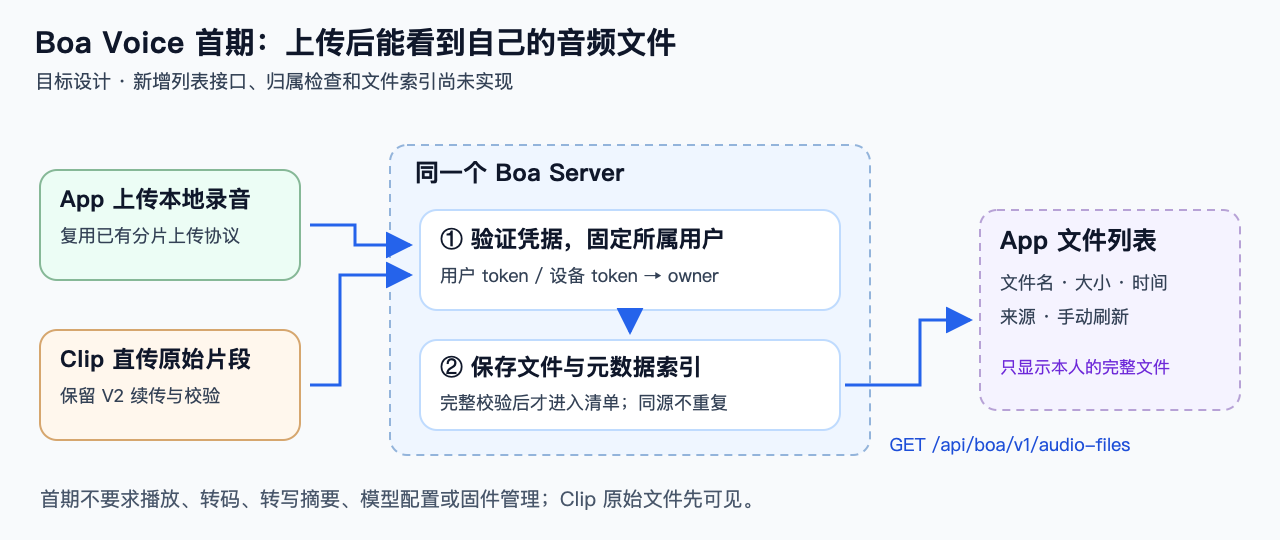
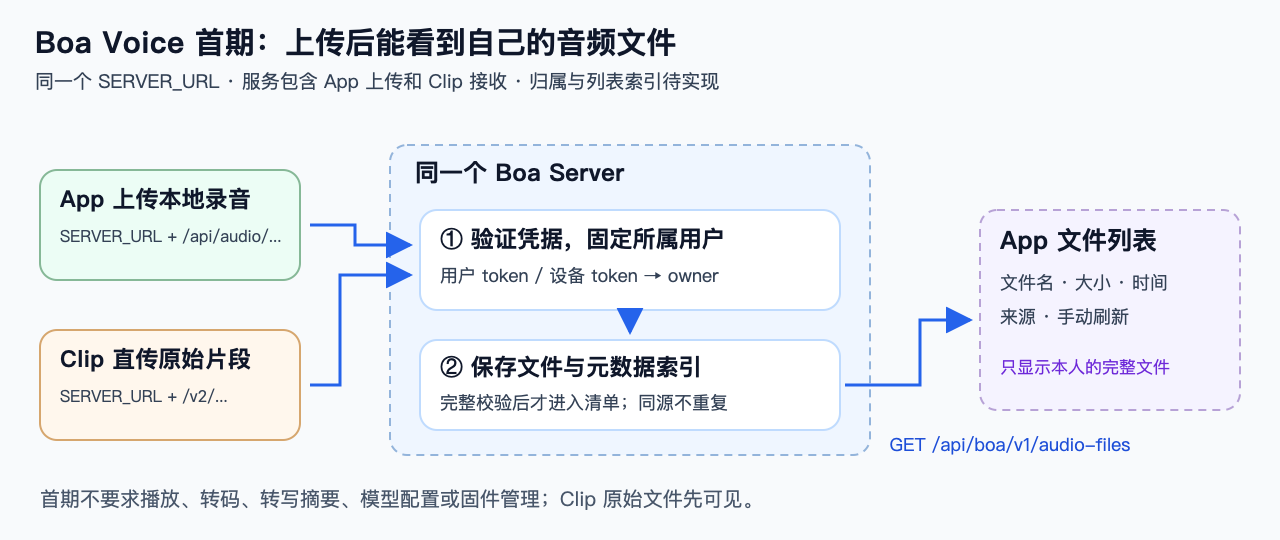
docs: define App and Clip against a single Boa Server service

Changed region(s): [[0.0312, 0.1185, 0.5625, 0.1778], [0.0312, 0.4148, 0.2188, 0.4741], [0.0312, 0.7111, 0.1875, 0.7704]]

diff --git a/README-integration.md b/README-integration.md
@@ -4,7 +4,7 @@
 
 分支：`boa/desktop-https-integration`。桌面与实验固件已完成代码集成；音频 Server 后续已部署至开发机并通过服务器内验证。未发布 App 安装包、未安装本分支 App、未刷机。
 
-开发机为 `bobo@100.58.19.213`。Boa 音频库现使用 **`https://100.58.19.213:9528`**，Mac 上桌面同一客户端已完成真实跨机器音频传输；不依赖 SSH 转发。见 [当前部署与证书说明](docs/development/server-100.58.19.213.md)、[桌面 HTTP 验证](docs/development/2026-10-22-desktop-http-status.md)。Roger 的 9527 是同一开发机上暂时单独运行的 Clip 接收进程；目标并入同一个 Boa Server，统一入口和内部音频入库；已安装 GUI App 尚未配置这份开发证书。早期 [部署验证记录](docs/development/2026-10-22-server-deployment-verification.md) 保留当时的 loopback 状态。
+**服务设计：App 与 Clip 都连接同一个 Boa Server，使用同一个 SERVER_URL。** 服务包含 App 上传、Clip 接收、统一鉴权、文件存储和列表接口。开发机为 `bobo@100.58.19.213`；部署参数见 [部署记录](docs/development/server-100.58.19.213.md)，已有跨机器传输证据见 [桌面 HTTP 验证](docs/development/2026-10-22-desktop-http-status.md)。这些记录不代表首期归属与统一列表已经实现。
 
 ## 集成来源
 
@@ -18,7 +18,7 @@
 
 后续开发机适配只为 Server launcher 增加可选 TLS 参数；桌面 `StorageClient` 明确在下载完成后关闭该次下载连接，避免下一次上传复用对端已退出的连接。`/api/audio`、持久存储逻辑、上传重试与哈希校验保持不变。测速程序可通过环境变量在当前进程信任开发证书，未改已安装 App 或系统证书设置。
 
-**首期只验收文件可见：**新增 `/api/boa/v1/audio-files` 统一列出完整接收的 App 文件和 Clip 原始片段；索引、用户归属和入口合并待开发，不要求首期播放/解码或 AI。以下是已有代码能力，保留不删。
+**首期只验收文件可见：**新增 `/api/boa/v1/audio-files` 统一列出完整接收的 App 文件和 Clip 原始片段；统一索引和用户归属待开发，不要求首期播放/解码或 AI。以下是已有代码能力，保留不删。
 
 ## 保留的功能与边界
 
@@ -26,14 +26,15 @@
 - 音频 Server：`/api/audio` 分片上传、SHA-256 校验、持久化、列表、HTTP Range 下载与续传。仍是单用户令牌模式，文件与 SQLite 存在本机磁盘。详见 [Server README](services/audio_storage/README.md)。
 - 实验固件：STA 联网、HTTPS 分块续传、USB 配置、空闲自动上传及录音优先机制，保留实验基线的限制。其构建以 STA 替代设备 AP，USB 不暴露录音磁盘；旧 App 的 AP/Wi-Fi 同步路径不能直接当作该固件可用功能。
 
-**同一开发机的两个过渡接收进程尚未合并（目标为同一个 Server）：**
+**首期同一服务内的数据流（设计，待实现）：**
 
 ```text
-麦克风 / App 已支持的本地文件 → Boa 桌面端 → /api/audio → 本地磁盘 + SQLite
-Clip 实验固件 → HTTPS /v2/devices/.../recordings/... → 实验接收端 → 原始录音分段
+App  ── /api/audio/uploads/... ──┐
+                                ├─ Boa Server ─ 归属/文件索引 ─ /api/boa/v1/audio-files ─ App
+Clip ── /v2/devices/... ─────────┘
 ```
 
-Clip 的 `stored` 回执仅表示原始字节已接收；不会自动进入 App 的音频列表，也不能直接保证标准音频播放。尚需 SourceRecord 元数据、设备与用户归属、可靠出站队列、原始 Opus 解码/封装和标准音频入库桥接。转写、摘要、自定义模型 endpoint 的 Server 执行仍是协议设计。本次不新增这些运行时功能。
+Clip 的 stored 表示原始片段完整接收；首期在同一个 Server 登记来源、所属用户和元数据后即可显示文件。原始片段不要求首期解码或播放，转写摘要与固件管理不在首期。上述归属与统一列表仍待实现，不以现有上传验证代替完整验收。
 
 ## 本地开发启动
 
@@ -58,15 +59,14 @@ bash scripts/run-desktop.sh
 
 该入口是 `mobile/app/lib/desktop_main.dart`，不是 `mobile/sdk/flutter/example`。本地构建可能使用相同的 App 数据目录；如要清空/隔离已有用户数据，应另外安排，不能直接删除。
 
-实验 HTTPS 接收端单独启动，证书、设备令牌、存储目录也与音频服务分别配置；按 [实验工具 README](tools/https_poc/README.md) 的凭据生成与接收端命令执行。设备配置通过 USB 工具完成，当前桌面界面尚未提供这一配置流程。请先阅读该文档和 [实机限制](docs/https-prehardware-test-results.md)，不要直接照搬历史证书或私有配置。
+上述启动命令仅用于现有音频服务基线，不代表已具备首期 Clip 接收和统一列表。实验 [接收工具](tools/https_poc/README.md) 作为协议/续传实现参考；首期由同一个 Boa Server 提供 V2 接收路由。设备连接参数仍按 [实机限制](docs/https-prehardware-test-results.md) 核实。
 
 ## 后续接入顺序
 
 历史完整方案（已移出首期）：开发细节参考 [固件管理审阅清单](docs/product/firmware-management-review.md)，再看 [设计](docs/superpowers/specs/2026-10-22-firmware-management-design.md) 与 [HTTP 契约 draft.3](docs/contracts/firmware-http-v1.md)。已按确认方向补齐 endpoint、独立 start/cancel/resolve、设备/授权/profile/策略接口及 [请求响应样例](docs/contracts/examples/firmware-http-v1.json)。范围覆盖自建固件库、版本分发、角色权限、App BLE 手动升级和审计；未部署固件 API 或刷机，硬件验收条件仍待核实。
 
-1. 审核 [Clip → App/Server 桥接契约](docs/contracts/clip-ingest-app-server-bridge.md) 与 [直传设计](docs/superpowers/specs/2026-10-22-clip-direct-server-upload-design.md)。
-2. 在 Server 实现原始录音接收、归属、可恢复转换与标准入库；保留现有 `/api/audio` 接口。
-3. 在 App 加入设备直传状态、来源、处理失败与重新获取内容流程；硬件联调 BLE 命令差异。
-4. 按 [AI HTTP 契约](docs/contracts/ai-http-v1.md) 实现转写、摘要、模型 endpoint 配置与凭据管理。
+1. 在同一个 Boa Server 复用 App 上传与 Clip V2 接收，补设备/用户归属。
+2. 增加持久文件索引及只读 audio-files 列表，App 只增加本人文件列表和刷新。
+3. 验证两个来源文件可见、断点重传/重启不丢归属、用户之间隔离。
 
 本次实际验证及未通过项见 [集成验证记录](docs/product/boa-desktop-https-integration-verification.md)。历史 Beta 安装验收只属于原版本，不等于本分支重新完成实机验收。

diff --git a/docs/product/boa-voice-overview.md b/docs/product/boa-voice-overview.md
@@ -1,6 +1,6 @@
 # Boa Voice：首期只做音频文件列表
 
-**v0.6｜2026-10-23｜设计约定，新增接口尚未实现。**
+**v0.7｜2026-10-23｜设计约定，新增接口尚未实现。**
 
 ## 1. 首期目标
 
@@ -14,13 +14,22 @@ App 只有一个文件列表：文件名、大小、时间、来源（App / Clip
 
 ## 2. 只保留三组必要接口
 
-目标只有一个 Boa Server。开发机业务入口当前为 `https://100.58.19.213:9528`，Clip 暂用同机 9527；接收模块并入后统一入口。
+**App 和 Clip 都连接同一个 Boa Server，配置同一个 `SERVER_URL`。** Boa Server 本身包含 App 上传、Clip 接收、身份校验、文件存储和统一列表查询，按一个服务部署和维护。
+
+| 同一服务内的模块 | 职责 |
+| --- | --- |
+| App 上传 / Clip 接收 | 分别处理已有分片协议和 V2 设备协议，完整校验后登记文件 |
+| 身份与归属 | 验证用户或设备凭据，固定所属用户 |
+| 文件存储与索引 | 统一保存两种来源的原件和元数据 |
+| 文件列表 | 按当前用户查询同一份索引，返回 App 展示 |
+
+`SERVER_URL` 是 Server 的 HTTPS 根地址。下列所有路径都追加到同一个 `SERVER_URL`；App 用用户 token，Clip 用设备 token。
 
 | 功能 | API | 必要信息与成功条件 | 当前状态 |
 | --- | --- | --- | --- |
 | App 查看自己的文件 | GET `/api/boa/v1/audio-files?offset=0&limit=50` | 用户 token；返回完整接收的文件元数据，见下节 | **唯一新增的 App 列表接口，未实现** |
 | App 上传本地录音 | POST `/api/audio/uploads`；PUT `/api/audio/uploads/{id}/parts/{index}`；POST `/api/audio/uploads/{id}/complete`；GET `/api/audio/uploads/{id}` | 创建带 filename/size/sha256/mime；分片带 X-Content-SHA256；查询到 complete 才列入文件清单 | 已有上传；用户归属/列表索引待补 |
-| Clip 上传原始录音 | GET/PUT `/v2/devices/{device}/recordings/{session}/{segment}` | 设备 token；整片大小/SHA，PUT 另带 Content-Length/Upload-Offset/本块 SHA；stored 后登记列表 | 实验已有接收；合并/归属/索引待补 |
+| Clip 上传原始录音 | GET/PUT `/v2/devices/{device}/recordings/{session}/{segment}` | 设备 token；整片大小/SHA，PUT 另带 Content-Length/Upload-Offset/本块 SHA；stored 后登记列表 | 复用 V2 接收实现；归属/索引待补 |
 
 不另加文件详情、下载、播放、任务进度、重试或后台管理 API。原上传分片、Clip 续传的具体字段保持原协议，见 [存储基线](../contracts/storage-http-v1.md)、[Clip 接收基线](../contracts/clip-ingest-app-server-bridge.md)。
 
@@ -67,6 +76,7 @@ App 只有一个文件列表：文件名、大小、时间、来源（App / Clip
 1. App 文件或 Clip 原始片段上传完成后，刷新能看到一条记录，名称/大小/时间/来源正确。
 2. 中断上传不入列表；同源重传、Server 重启不产生重复记录或丢失归属。
 3. 两个用户分别只能看到自己的文件，无效 token 不能列出内容。
+4. App 与 Clip 使用同一个 SERVER_URL；App 上传和 Clip 直传的完整文件都能在同一个列表查到。
 
 先完成“接收 → 归属 → 持久索引 → 本人文件列表”。**能列文件不等于能播放、能转写或已完成真机联调。**
 

diff --git a/docs/contracts/clip-ingest-app-server-bridge.md b/docs/contracts/clip-ingest-app-server-bridge.md
@@ -20,7 +20,7 @@
 
 **推荐：服务端增加兼容接收适配器和转换入库模块，保留设备 V2 路径/回执；App 继续读取标准音频接口。** `/api/boa/device/v1` 是旧方案提出的未来新协议，不是实验固件已使用的接口，首期不强迫设备切换。
 
-整合方式确定为“同一个 Boa Server 内的设备路由 + 持久处理 Worker + 音频库内部发布接口”，统一对外根地址、身份归属与音频目录。当前同一开发机的 9527/9528 进程只是过渡部署，不保留为两套产品 Server。复用实验 ResumeStore 的校验/续传规则，不能直接把测试用 ThreadingHTTPServer 当成生产模块嵌入事件循环。后台 Worker 可独立运行进程，但仍属于同一 Server，不形成第二套用户服务或身份体系。
+**同一个 Boa Server 直接提供 App API 和 Clip V2 接收 API，App 与 Clip 使用同一个 SERVER_URL。** 首期复用实验 ResumeStore 的校验/续传组件，在同一服务内完成身份校验、接收、文件索引和列表查询；不直接把测试用 ThreadingHTTPServer 当成生产路由。下文转换 Worker 与标准音频发布属于后续能力，不是首期文件可见的前置依赖。
 
 当前 FastAPI 中间件对所有请求校验同一个用户存储 token，**新增 router 本身并不足以接通**。需要按已注册的路由边界分别校验 V2 设备身份和 `/api/audio`/用户 API 身份，再将受信 principal 传入用例；不能直接全局放行 `/v2`，也不能使设备 token 获得用户音频库权限。旧用户 token 的行为保持兼容。
 

diff --git a/docs/superpowers/specs/2026-10-22-clip-direct-server-upload-design.md b/docs/superpowers/specs/2026-10-22-clip-direct-server-upload-design.md
@@ -6,7 +6,7 @@
 
 **阅读顺序：**先看本文的状态对照，再看 [实验直传 → Boa App/Server 接入契约](../../contracts/clip-ingest-app-server-bridge.md)。原 [App 设备契约](../../contracts/clip-device-v1.md)、[音频存储](../../contracts/storage-http-v1.md)、[服务端 AI 草案](../../contracts/ai-http-v1.md)继续各自维护现有行为/规划边界。
 
-**统一架构补充：**按 [总览](../../product/boa-voice-overview.md)，Clip 接收和业务接口最终收敛在同一个 Boa Server；当前 9527/9528 是同一开发机上的过渡进程，不能画成长期两套服务。保留设备 V2 兼容路径，内部完成归属、转码和音频发布；模块合并尚未实现。
+**首期架构以 [总览](../../product/boa-voice-overview.md) 为准：App 与 Clip 都连接同一个 Boa Server、同一个 SERVER_URL。** 服务直接包含 V2 接收、App 上传、身份归属、文件存储和统一列表。原始录音先能列出即可；本文后续的转码、AI 与产品化规划不作为首期依赖。
 
 ## 1. 本次审视的版本与证据
 
